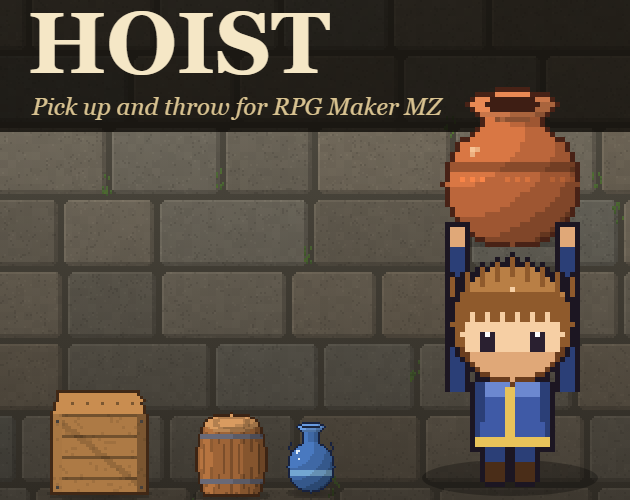
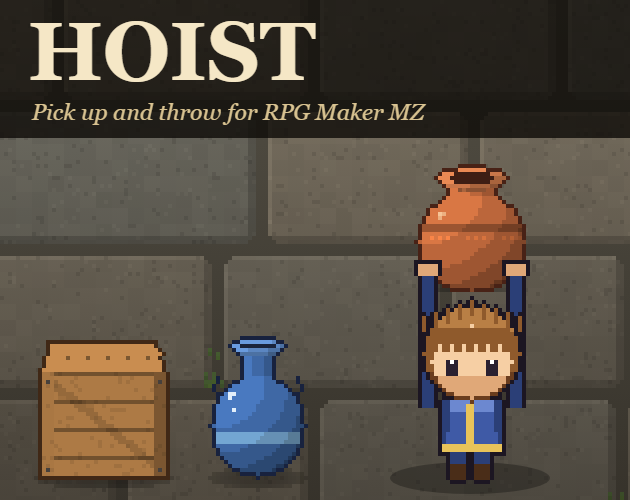
hoist v1.0.0 store images and copy (upload carrier)

diff --git a/rpgmaker/hoist-v1.0.0/description.html b/rpgmaker/hoist-v1.0.0/description.html
@@ -4,10 +4,10 @@
 <p>RPG Maker users have asked for lift sprites since at least 2014, and the free pick up and throw plugins move the object while the hero stands as before: buyers on their pages say they drew their own lift sprites. Hoist draws them for you.</p>
 <h2>What you get</h2>
 <ul>
-<li><strong>Three poses for every walking sheet,</strong> in all 4 facings: a squat that reaches for the object, a carry walk with the arms raised and the legs still stepping, and the throw. Made when the sheet loads, from its own arms, sleeves and hands.</li>
+<li><strong>Three poses for each walking sheet,</strong> in all 4 facings: a squat that reaches for the object, a carry walk with both hands under it and the legs still stepping, and the throw. Made when the sheet loads, from its own arms and colours.</li>
 <li><strong>Any event can be lifted</strong> with the note tag <code>&lt;hoist&gt;</code>: a tile from your tileset or a character sheet frame.</li>
 <li><strong>The throw</strong> arcs from overhead over a shadow, up to 3 tiles by default, stops short of walls and splashes into water.</li>
-<li><strong>Where it lands</strong> it breaks into pieces of its own picture, or lands whole with <code>&lt;hoist: keep&gt;</code>. A <code>&lt;hoist target&gt;</code> it hits gets a self switch: a dummy falls, a brazier lights.</li>
+<li><strong>Where it lands</strong> it breaks into pieces of its own picture, or lands whole with <code>&lt;hoist: keep&gt;</code>. A <code>&lt;hoist target&gt;</code> it hits gets a self switch, so its next page can react: the dummy here falls over.</li>
 <li><strong>With <a href="https://csaf.itch.io/smithereens">Smithereens</a> installed,</strong> the object breaks the way its material would.</li>
 <li><strong>8 sample objects:</strong> pot, urn, crate, barrel, rock, bush, sack and a training dummy.</li>
 </ul>
@@ -27,4 +27,4 @@
 <hr>
 <!--COMPAT:end-->
 <p><strong>From the same studio:</strong> <a href="https://csaf.itch.io/smithereens">Smithereens</a>, pots and crates that break by material. <a href="https://csaf.itch.io/posture">Posture</a>, sit and sleep poses from your sheets. <a href="https://csaf.itch.io/ajar">Ajar</a>, drawers and lids that open. <a href="https://csaf.itch.io/timber">Timber</a>, trees you can cut down.</p>
-<p>Code written with AI assistance; the knight and the objects in these pictures were made with AI assistance, and every pose on them is drawn by the plugin.</p>
+<p>Code written with AI assistance. Every character, object and ground in these pictures is our own and was made with AI assistance; every lift, carry and throw pose on them is drawn by the plugin from the character's walking sheet.</p>

diff --git a/rpgmaker/hoist-v1.0.0/devlog.html b/rpgmaker/hoist-v1.0.0/devlog.html
@@ -2,5 +2,5 @@
 <p><img src="{{IMG:shot_1_hoist.gif}}" alt="A knight lifts a clay pot overhead, walks with it, and throws it at a training dummy; it arcs over its shadow and shatters"></p>
 <p>Tag an event <code>&lt;hoist&gt;</code> and the hero can squat, lift it overhead, walk with it and throw it. It flies on an arc over its own shadow, stops short of walls, sinks in water, and breaks into pieces of its own picture where it lands. A <code>&lt;hoist target&gt;</code> it hits gets a self switch, and with <a href="https://csaf.itch.io/smithereens">Smithereens</a> installed the object breaks the way its material would.</p>
 <p><img src="{{IMG:shot_5_sheets.png}}" alt="The knight's walking sheet beside the carry walk sheet and the squat, raise and throw sheet made from it"></p>
-<p>The poses are made once, when a walking sheet loads, from that sheet's own arms, sleeves and hands, so there is no lift sprite to draw. Measured in the real engine on a loop of lift, carry, throw and break: {{DRAW_CYCLE}} draw calls a frame, against {{DRAW_CONTROL}} with nothing carried. Eight sample objects come with it: a pot, an urn, a crate, a barrel, a rock, a bush, a sack and a training dummy that falls over.</p>
+<p>The poses are made once, when a walking sheet loads, from that sheet's own arms and colours, so there is no lift sprite to draw. Measured in the real engine on a loop of lift, carry, throw and break: {{DRAW_CYCLE}} draw calls a frame, against {{DRAW_CONTROL}} with nothing carried. Eight sample objects come with it: a pot, an urn, a crate, a barrel, a rock, a bush, a sack and a training dummy that falls over.</p>
 <p><a href="https://csaf.itch.io/hoist">Hoist on itch.io</a>, $9.99. <a href="{{DOCS_URL}}">The documentation</a> is free to read first.</p>
